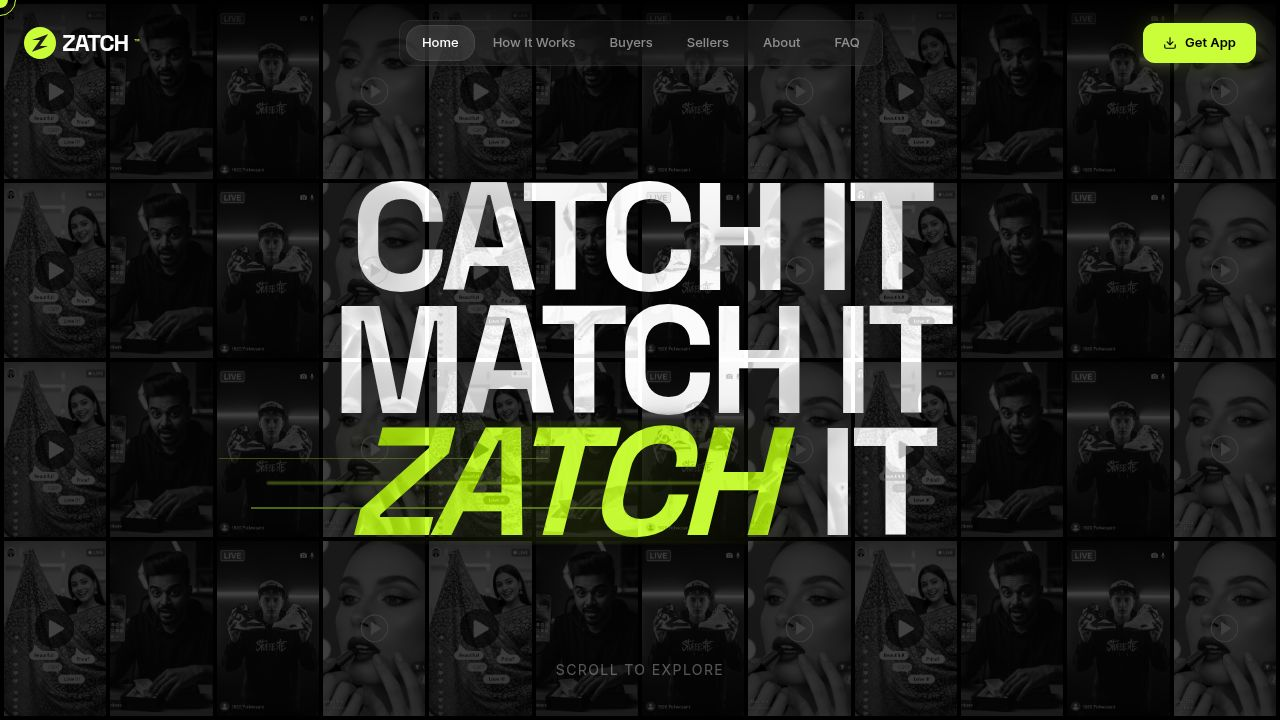
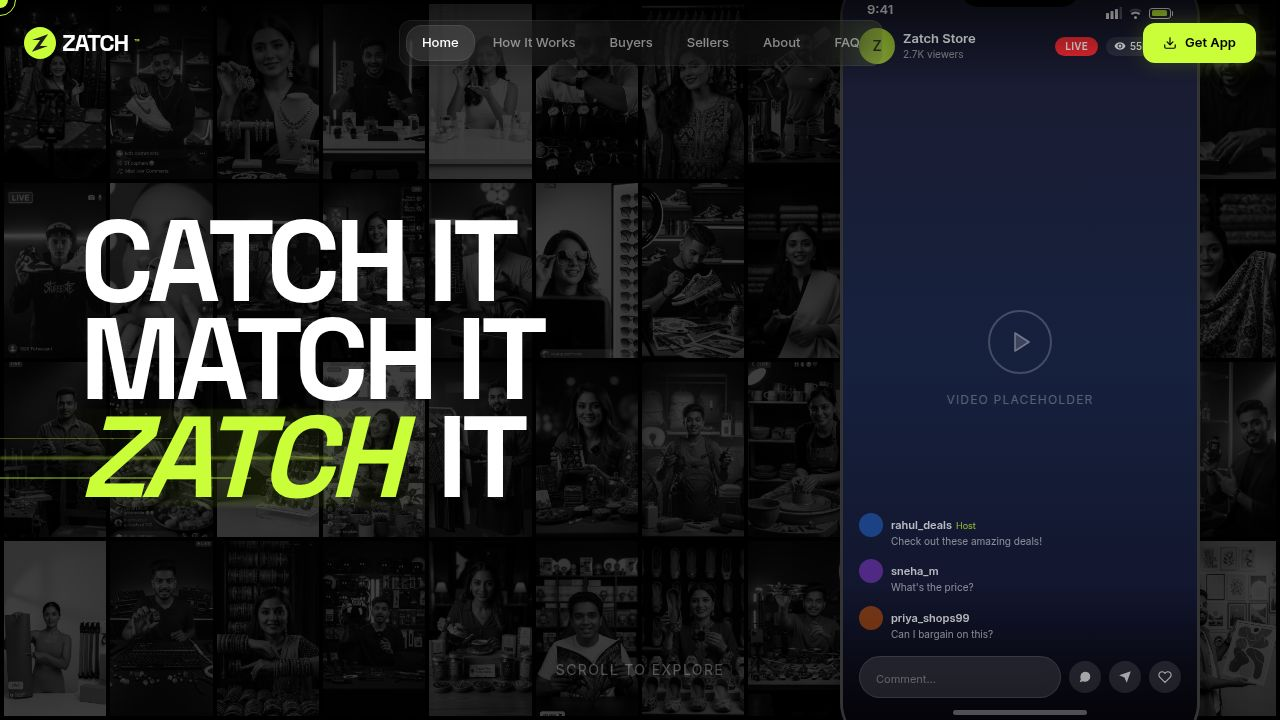
Add scroll animation to hero section iPhone mock-up
Update KineticHero component to include a scroll-driven animation on the IPhoneMockup. The animation transitions from a live stream UI to a "Start Zatching" screen with a QR code as the user scrolls.

Replit-Commit-Author: Agent
Replit-Commit-Session-Id: a01fbe0a-81c0-4671-813c-2384aedc53d4
Replit-Commit-Checkpoint-Type: full_checkpoint
Replit-Commit-Event-Id: ca9ad162-04c5-4407-a43e-a08825b0c5bb
Replit-Commit-Screenshot-Url: https://storage.googleapis.com/screenshot-production-us-central1/a6b22d07-821e-4c69-b944-390edc69f984/a01fbe0a-81c0-4671-813c-2384aedc53d4/ko149k6
Replit-Helium-Checkpoint-Created: true

diff --git a/client/src/components/sections/KineticHero.tsx b/client/src/components/sections/KineticHero.tsx
@@ -1,5 +1,5 @@
 import { useRef, useMemo } from "react";
-import { motion, useScroll, useTransform, useSpring } from "framer-motion";
+import { motion, useScroll, useTransform, useSpring, MotionValue } from "framer-motion";
 
 import streamFashion from "@/assets/kinetic/stream-fashion.png";
 import streamTech from "@/assets/kinetic/stream-tech.png";
@@ -103,16 +103,16 @@ export function KineticHero() {
           ))}
         </div>
 
-        <motion.div 
-           style={{ 
-              opacity: useTransform(smoothProgress, [0, 0.3], [1, 0]),
-              scale: useTransform(smoothProgress, [0, 0.3], [1, 1.2]),
-              filter: useTransform(smoothProgress, [0, 0.15], ["brightness(1) contrast(1)", "brightness(1.5) contrast(1.2)"]),
-           }}
-           className="absolute z-20 pointer-events-none w-full px-6 md:px-12 lg:px-20"
-        >
-           <div className="flex items-center justify-between max-w-[1400px] mx-auto">
-             <h1 className="text-[11vw] md:text-[9vw] font-bold font-display leading-[0.85] tracking-tighter text-white mix-blend-difference">
+        <div className="absolute z-20 pointer-events-none w-full px-6 md:px-12 lg:px-20 h-full flex items-center">
+           <div className="flex items-center justify-between max-w-[1400px] mx-auto w-full">
+             <motion.h1
+                style={{ 
+                  opacity: useTransform(smoothProgress, [0, 0.3], [1, 0]),
+                  scale: useTransform(smoothProgress, [0, 0.3], [1, 1.2]),
+                  filter: useTransform(smoothProgress, [0, 0.15], ["brightness(1) contrast(1)", "brightness(1.5) contrast(1.2)"]),
+                }}
+                className="text-[11vw] md:text-[9vw] font-bold font-display leading-[0.85] tracking-tighter text-white mix-blend-difference origin-left"
+             >
                 CATCH IT<br/>
                 MATCH IT<br/>
                 <span className="relative inline-block text-primary italic pr-4">
@@ -122,13 +122,13 @@ export function KineticHero() {
                   <span className="absolute top-[70%] -left-24 w-4/5 h-[1.5px] bg-primary/40 blur-[0.5px]" />
                   <span className="absolute inset-0 translate-x-1 translate-y-0 opacity-50 mix-blend-screen blur-[1px] skew-x-12 scale-x-110 bg-gradient-to-r from-transparent via-primary/20 to-transparent -z-10"></span>
                 </span> IT
-             </h1>
+             </motion.h1>
 
              <div className="hidden md:block flex-shrink-0 ml-8">
-               <IPhoneMockup />
+               <IPhoneMockup scrollProgress={smoothProgress} />
              </div>
            </div>
-        </motion.div>
+        </div>
         
         <motion.div 
            style={{ opacity: useTransform(smoothProgress, [0, 0.15], [1, 0]) }}
@@ -142,9 +142,20 @@ export function KineticHero() {
   );
 }
 
-function IPhoneMockup() {
+function IPhoneMockup({ scrollProgress }: { scrollProgress: MotionValue<number> }) {
+  const liveOpacity = useTransform(scrollProgress, [0, 0.15, 0.25], [1, 1, 0]);
+  const zatchiOpacity = useTransform(scrollProgress, [0.15, 0.25, 0.35], [0, 0, 1]);
+  const zatchiScale = useTransform(scrollProgress, [0.2, 0.35], [0.9, 1]);
+  const phoneScale = useTransform(scrollProgress, [0.1, 0.3], [1, 1.05]);
+
+  const PLAY_STORE_URL = "https://play.google.com/store/apps/details?id=com.zatch.app";
+  const QR_SRC = `https://api.qrserver.com/api/v1/create-qr-code/?size=200x200&data=${encodeURIComponent(PLAY_STORE_URL)}&bgcolor=000000&color=cafe38&margin=8`;
+
   return (
-    <div className="relative w-[280px] lg:w-[320px] xl:w-[360px] pointer-events-auto">
+    <motion.div
+      style={{ scale: phoneScale }}
+      className="relative w-[280px] lg:w-[320px] xl:w-[360px] pointer-events-auto"
+    >
       <div className="relative rounded-[3rem] border-[3px] border-white/20 bg-black overflow-hidden shadow-2xl shadow-black/50"
            style={{ aspectRatio: "9/19.5" }}>
         
@@ -165,92 +176,129 @@ function IPhoneMockup() {
           </div>
         </div>
 
-        <div className="absolute inset-0 z-10" id="hero-video-placeholder" data-testid="hero-video-placeholder">
-          <div className="w-full h-full bg-gradient-to-b from-[#1a1a2e] via-[#16213e] to-[#0f0f23] flex items-center justify-center">
-            <div className="text-center">
-              <div className="w-16 h-16 rounded-full border-2 border-white/20 flex items-center justify-center mx-auto mb-3">
-                <svg width="24" height="24" viewBox="0 0 24 24" fill="none" stroke="white" strokeWidth="1.5" strokeLinecap="round" strokeLinejoin="round" className="opacity-40 ml-1">
-                  <polygon points="5 3 19 12 5 21 5 3" fill="white" fillOpacity="0.4"/>
-                </svg>
+        <motion.div style={{ opacity: liveOpacity }} className="absolute inset-0 z-10">
+          <div className="absolute inset-0" id="hero-video-placeholder" data-testid="hero-video-placeholder">
+            <div className="w-full h-full bg-gradient-to-b from-[#1a1a2e] via-[#16213e] to-[#0f0f23] flex items-center justify-center">
+              <div className="text-center">
+                <div className="w-16 h-16 rounded-full border-2 border-white/20 flex items-center justify-center mx-auto mb-3">
+                  <svg width="24" height="24" viewBox="0 0 24 24" fill="none" stroke="white" strokeWidth="1.5" strokeLinecap="round" strokeLinejoin="round" className="opacity-40 ml-1">
+                    <polygon points="5 3 19 12 5 21 5 3" fill="white" fillOpacity="0.4"/>
+                  </svg>
+                </div>
+                <span className="text-white/30 text-xs uppercase tracking-widest">Video Placeholder</span>
               </div>
-              <span className="text-white/30 text-xs uppercase tracking-widest">Video Placeholder</span>
             </div>
           </div>
-        </div>
 
-        <div className="absolute top-[55px] left-0 right-0 z-20 px-4">
-          <div className="flex items-center justify-between">
-            <div className="flex items-center gap-2">
-              <div className="w-9 h-9 rounded-full bg-gradient-to-br from-primary to-primary/60 flex items-center justify-center text-black font-bold text-sm">Z</div>
-              <div>
-                <div className="text-white text-[13px] font-semibold leading-tight">Zatch Store</div>
-                <div className="text-white/50 text-[10px]">2.7K viewers</div>
+          <div className="absolute top-[55px] left-0 right-0 z-20 px-4">
+            <div className="flex items-center justify-between">
+              <div className="flex items-center gap-2">
+                <div className="w-9 h-9 rounded-full bg-gradient-to-br from-primary to-primary/60 flex items-center justify-center text-black font-bold text-sm">Z</div>
+                <div>
+                  <div className="text-white text-[13px] font-semibold leading-tight">Zatch Store</div>
+                  <div className="text-white/50 text-[10px]">2.7K viewers</div>
+                </div>
               </div>
-            </div>
-            <div className="flex items-center gap-2">
-              <div className="bg-red-500 text-white text-[10px] font-bold px-2.5 py-0.5 rounded-md tracking-wide">LIVE</div>
-              <div className="flex items-center gap-1 bg-white/10 backdrop-blur-sm rounded-full px-2 py-0.5">
-                <svg width="12" height="12" viewBox="0 0 24 24" fill="white"><path d="M12 4.5C7 4.5 2.7 7.6 1 12c1.7 4.4 6 7.5 11 7.5s9.3-3.1 11-7.5c-1.7-4.4-6-7.5-11-7.5zM12 17c-2.8 0-5-2.2-5-5s2.2-5 5-5 5 2.2 5 5-2.2 5-5 5zm0-8c-1.7 0-3 1.3-3 3s1.3 3 3 3 3-1.3 3-3-1.3-3-3-3z"/></svg>
-                <span className="text-white text-[10px] font-medium">55K</span>
+              <div className="flex items-center gap-2">
+                <div className="bg-red-500 text-white text-[10px] font-bold px-2.5 py-0.5 rounded-md tracking-wide">LIVE</div>
+                <div className="flex items-center gap-1 bg-white/10 backdrop-blur-sm rounded-full px-2 py-0.5">
+                  <svg width="12" height="12" viewBox="0 0 24 24" fill="white"><path d="M12 4.5C7 4.5 2.7 7.6 1 12c1.7 4.4 6 7.5 11 7.5s9.3-3.1 11-7.5c-1.7-4.4-6-7.5-11-7.5zM12 17c-2.8 0-5-2.2-5-5s2.2-5 5-5 5 2.2 5 5-2.2 5-5 5zm0-8c-1.7 0-3 1.3-3 3s1.3 3 3 3 3-1.3 3-3-1.3-3-3-3z"/></svg>
+                  <span className="text-white text-[10px] font-medium">55K</span>
+                </div>
+                <button className="text-white/70">
+                  <svg width="16" height="16" viewBox="0 0 24 24" fill="none" stroke="currentColor" strokeWidth="2"><line x1="18" y1="6" x2="6" y2="18"/><line x1="6" y1="6" x2="18" y2="18"/></svg>
+                </button>
               </div>
-              <button className="text-white/70">
-                <svg width="16" height="16" viewBox="0 0 24 24" fill="none" stroke="currentColor" strokeWidth="2"><line x1="18" y1="6" x2="6" y2="18"/><line x1="6" y1="6" x2="18" y2="18"/></svg>
-              </button>
             </div>
           </div>
-        </div>
 
-        <div className="absolute bottom-0 left-0 right-0 z-20 px-4 pb-8">
-          <div className="space-y-2.5 mb-4">
-            <div className="flex items-start gap-2">
-              <div className="w-6 h-6 rounded-full bg-blue-500/40 flex-shrink-0 mt-0.5" />
-              <div>
-                <span className="text-white/70 text-[11px] font-semibold">rahul_deals</span>
-                <span className="text-[9px] text-primary/70 ml-1">Host</span>
-                <p className="text-white/50 text-[10px] leading-tight">Check out these amazing deals! 🔥</p>
+          <div className="absolute bottom-0 left-0 right-0 z-20 px-4 pb-8">
+            <div className="space-y-2.5 mb-4">
+              <div className="flex items-start gap-2">
+                <div className="w-6 h-6 rounded-full bg-blue-500/40 flex-shrink-0 mt-0.5" />
+                <div>
+                  <span className="text-white/70 text-[11px] font-semibold">rahul_deals</span>
+                  <span className="text-[9px] text-primary/70 ml-1">Host</span>
+                  <p className="text-white/50 text-[10px] leading-tight">Check out these amazing deals!</p>
+                </div>
+              </div>
+              <div className="flex items-start gap-2">
+                <div className="w-6 h-6 rounded-full bg-purple-500/40 flex-shrink-0 mt-0.5" />
+                <div>
+                  <span className="text-white/70 text-[11px] font-semibold">sneha_m</span>
+                  <p className="text-white/50 text-[10px] leading-tight">What's the price?</p>
+                </div>
+              </div>
+              <div className="flex items-start gap-2">
+                <div className="w-6 h-6 rounded-full bg-orange-500/40 flex-shrink-0 mt-0.5" />
+                <div>
+                  <span className="text-white/70 text-[11px] font-semibold">priya_shops99</span>
+                  <p className="text-white/50 text-[10px] leading-tight">Can I bargain on this?</p>
+                </div>
               </div>
             </div>
-            <div className="flex items-start gap-2">
-              <div className="w-6 h-6 rounded-full bg-purple-500/40 flex-shrink-0 mt-0.5" />
-              <div>
-                <span className="text-white/70 text-[11px] font-semibold">sneha_m</span>
-                <p className="text-white/50 text-[10px] leading-tight">What's the price? 💰</p>
+            
+            <div className="flex items-center gap-2">
+              <div className="flex-1 bg-white/10 backdrop-blur-sm rounded-full px-4 py-2 border border-white/10">
+                <span className="text-white/30 text-[11px]">Comment...</span>
+              </div>
+              <div className="flex items-center gap-2">
+                <div className="w-8 h-8 rounded-full bg-white/10 flex items-center justify-center">
+                  <svg width="14" height="14" viewBox="0 0 24 24" fill="white" opacity="0.6"><path d="M21 11.5a8.38 8.38 0 01-.9 3.8 8.5 8.5 0 01-7.6 4.7 8.38 8.38 0 01-3.8-.9L3 21l1.9-5.7a8.38 8.38 0 01-.9-3.8 8.5 8.5 0 014.7-7.6 8.38 8.38 0 013.8-.9h.5a8.48 8.48 0 018 8v.5z"/></svg>
+                </div>
+                <div className="w-8 h-8 rounded-full bg-white/10 flex items-center justify-center">
+                  <svg width="14" height="14" viewBox="0 0 24 24" fill="white" opacity="0.6"><path d="M22 2L11 13M22 2l-7 20-4-9-9-4 20-7z"/></svg>
+                </div>
+                <div className="w-8 h-8 rounded-full bg-white/10 flex items-center justify-center">
+                  <svg width="14" height="14" viewBox="0 0 24 24" fill="none" stroke="white" strokeWidth="2" opacity="0.6"><path d="M20.84 4.61a5.5 5.5 0 00-7.78 0L12 5.67l-1.06-1.06a5.5 5.5 0 00-7.78 7.78l1.06 1.06L12 21.23l7.78-7.78 1.06-1.06a5.5 5.5 0 000-7.78z"/></svg>
+                </div>
               </div>
             </div>
-            <div className="flex items-start gap-2">
-              <div className="w-6 h-6 rounded-full bg-orange-500/40 flex-shrink-0 mt-0.5" />
-              <div>
-                <span className="text-white/70 text-[11px] font-semibold">priya_shops99</span>
-                <p className="text-white/50 text-[10px] leading-tight">Can I bargain on this? 🤔</p>
-              </div>
-            </div>
+            
+            <div className="mt-3 mx-auto w-[134px] h-[5px] bg-white/30 rounded-full" />
           </div>
           
-          <div className="flex items-center gap-2">
-            <div className="flex-1 bg-white/10 backdrop-blur-sm rounded-full px-4 py-2 border border-white/10">
-              <span className="text-white/30 text-[11px]">Comment...</span>
+          <div className="absolute bottom-0 left-0 right-0 h-40 bg-gradient-to-t from-black/90 via-black/50 to-transparent z-[15] pointer-events-none" />
+        </motion.div>
+
+        <motion.div
+          style={{ opacity: zatchiOpacity, scale: zatchiScale }}
+          className="absolute inset-0 z-10 flex flex-col items-center justify-center"
+        >
+          <div className="w-full h-full bg-black flex flex-col items-center justify-center px-8">
+            <div className="w-14 h-14 rounded-2xl bg-primary flex items-center justify-center mb-6">
+              <span className="text-black font-bold text-2xl font-display">Z</span>
             </div>
-            <div className="flex items-center gap-2">
-              <div className="w-8 h-8 rounded-full bg-white/10 flex items-center justify-center">
-                <svg width="14" height="14" viewBox="0 0 24 24" fill="white" opacity="0.6"><path d="M21 11.5a8.38 8.38 0 01-.9 3.8 8.5 8.5 0 01-7.6 4.7 8.38 8.38 0 01-3.8-.9L3 21l1.9-5.7a8.38 8.38 0 01-.9-3.8 8.5 8.5 0 014.7-7.6 8.38 8.38 0 013.8-.9h.5a8.48 8.48 0 018 8v.5z"/></svg>
-              </div>
-              <div className="w-8 h-8 rounded-full bg-white/10 flex items-center justify-center">
-                <svg width="14" height="14" viewBox="0 0 24 24" fill="white" opacity="0.6"><path d="M22 2L11 13M22 2l-7 20-4-9-9-4 20-7z"/></svg>
-              </div>
-              <div className="w-8 h-8 rounded-full bg-white/10 flex items-center justify-center">
-                <svg width="14" height="14" viewBox="0 0 24 24" fill="none" stroke="white" strokeWidth="2" opacity="0.6"><path d="M20.84 4.61a5.5 5.5 0 00-7.78 0L12 5.67l-1.06-1.06a5.5 5.5 0 00-7.78 7.78l1.06 1.06L12 21.23l7.78-7.78 1.06-1.06a5.5 5.5 0 000-7.78z"/></svg>
-              </div>
+
+            <h2 className="text-white text-2xl lg:text-3xl font-bold font-display text-center leading-tight mb-2">
+              Start<br/>
+              <span className="text-primary">Zatching</span>
+            </h2>
+            <p className="text-white/40 text-[11px] text-center mb-6">Scan to download the app</p>
+
+            <div className="w-[140px] h-[140px] lg:w-[160px] lg:h-[160px] rounded-2xl overflow-hidden border-2 border-primary/30 bg-black p-1 mb-5">
+              <img 
+                src={QR_SRC}
+                alt="Download Zatch App QR Code"
+                className="w-full h-full rounded-xl"
+                data-testid="hero-qr-code"
+              />
             </div>
+
+            <div className="flex items-center gap-2 bg-primary/10 border border-primary/20 rounded-full px-4 py-2">
+              <svg width="16" height="16" viewBox="0 0 24 24" fill="none">
+                <path d="M3 3l8.735 18L15 13l8-3.265L3 3z" fill="#cafe38"/>
+              </svg>
+              <span className="text-primary text-[11px] font-semibold">Get it on Google Play</span>
+            </div>
+
+            <div className="mt-6 mx-auto w-[134px] h-[5px] bg-white/30 rounded-full" />
           </div>
-          
-          <div className="mt-3 mx-auto w-[134px] h-[5px] bg-white/30 rounded-full" />
-        </div>
-        
-        <div className="absolute bottom-0 left-0 right-0 h-40 bg-gradient-to-t from-black/90 via-black/50 to-transparent z-[15] pointer-events-none" />
+        </motion.div>
       </div>
 
       <div className="absolute -bottom-4 left-1/2 -translate-x-1/2 w-32 h-8 bg-primary/20 blur-2xl rounded-full" />
-    </div>
+    </motion.div>
   );
 }
 
